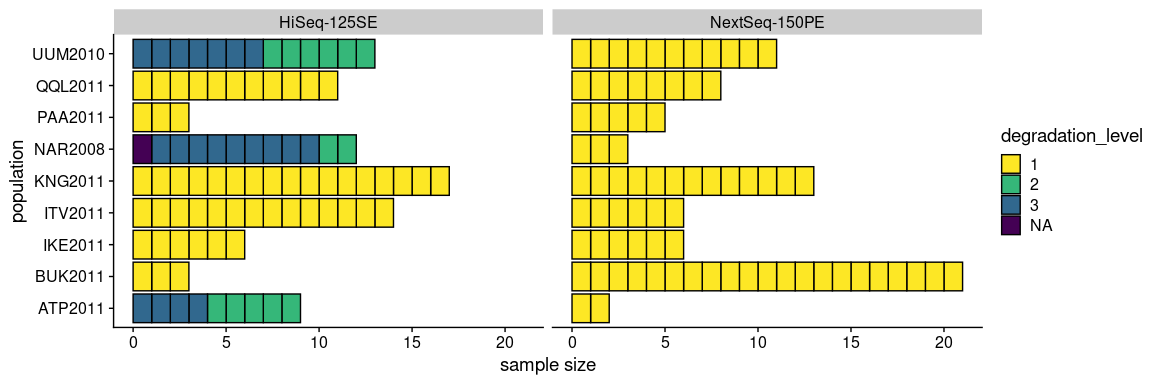
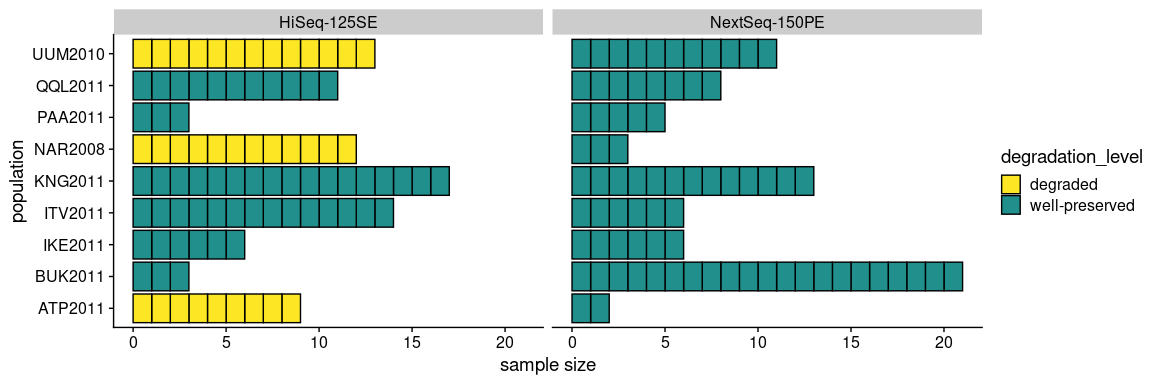
corrected figure S1 legend

Changed region(s): [[0.0938, 0.0938, 0.4062, 0.8438], [0.4688, 0.0938, 0.8438, 0.8438], [0.8438, 0.3438, 1.0, 0.625]]

diff --git a/markdown/original_pipeline.md b/markdown/original_pipeline.md
@@ -631,9 +631,10 @@ sample_table_degradation <- left_join(sample_table_merged, extraction_info, by=c
 degradation_sample_size <- sample_table_degradation %>%
   mutate(data_type=ifelse(data_type=="pe", "NextSeq-150PE", "HiSeq-125SE")) %>%
   mutate(sample_id_corrected=fct_reorder(sample_id_corrected, degradation_level)) %>%
+  mutate(degradation_level=ifelse(degradation_level=="1", "well-preserved", "degraded")) %>%
   ggplot(aes(x=population_new, fill=degradation_level, group=sample_id_corrected)) +
   geom_bar(color="black") +
-  scale_fill_viridis_d(begin=0, end=1, direction = -1) +
+  scale_fill_viridis_d(begin=0.5, end=1, direction = -1) +
   xlab("population")+
   ylab("sample size") +
   facet_wrap(~data_type) +
